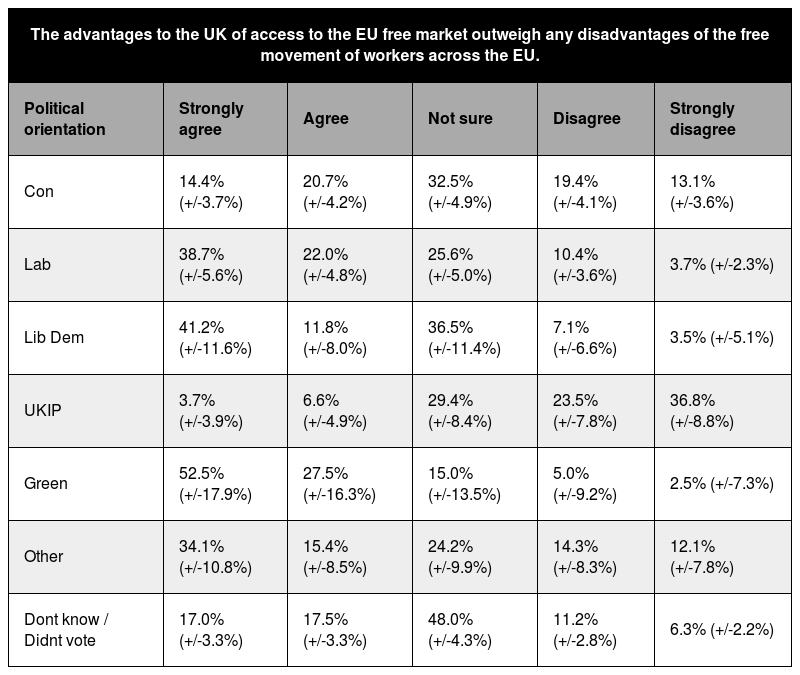
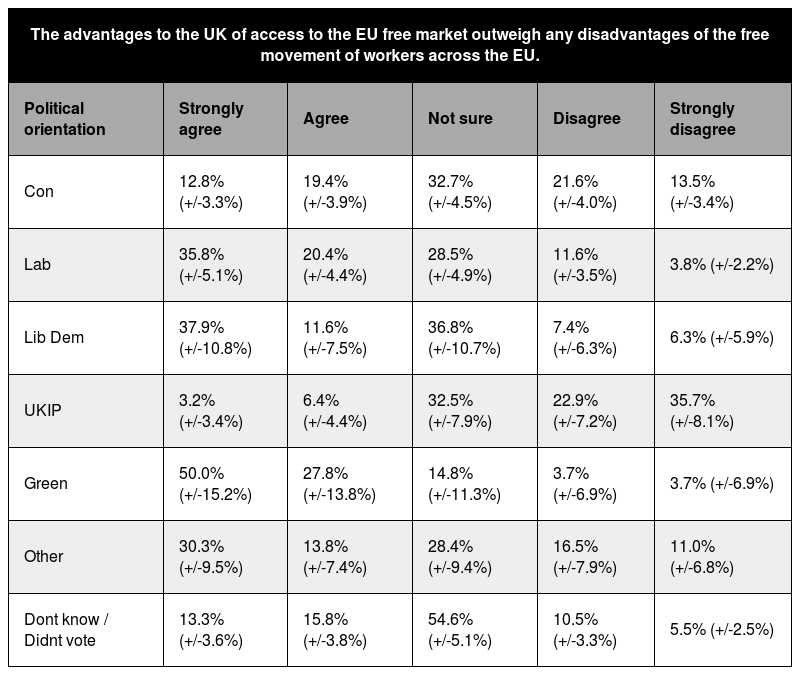
Quesiton 1 draft for yougov review

diff --git a/html/index.md b/html/index.md
@@ -41,13 +41,17 @@ To assess the UK population’s attitude to the UK government's negotiating posi
 
 **"The advantages to the UK of access to the EU free market outweigh any disadvantages of the free movement of workers across the EU."**
 
-With responses on a 5 point Likert scale ("Strongly agree, "Agree", "Not sure", "Disagree", "Strongly disagree"), to a sample of 1638 people using an online survey conducted by YouGov using their daily omnibus service.
+With responses on a 5 point Likert scale ("Strongly agree, "Agree", "Not sure", "Disagree", "Strongly disagree"), to a sample of 1639 people using an online survey conducted by YouGov using their daily omnibus service, on the 19th and 20th of July 2016.
+
+This survey has been conducted using an online interview administered members of the YouGov Plc GB panel of 185,000+ individuals who have agreed to take part in surveys. An email was sent to panellists selected at random from the base sample according to the sample definition, inviting them to take part in the survey and providing a link to the survey. YouGov Plc normally achieves a response rate of between 35% and 50% to surveys however this does vary dependent upon the subject matter, complexity and length of the questionnaire. The responding sample is weighted to the profile of the sample definition to provide a representative reporting sample. The profile is normally derived from census data or, if not available from the census, from industry accepted data.
 
 The sample included some representation from all demographic groups across 6 broad regions of the UK (London, Rest of the South, Midlands and Wales, North of England, Scotland, Northern Ireland). There was some sample bias noted with a moderate underrepresentation of 18-24 year old males in London, and in the Midlands / Wales, and over representation of females of all age groups in the Rest of the South. A weighting was applied to correct this sample bias based on demographics.
 
 The sample included people who voted across the political spectrum in the 2015 general election. The proportions were compared to the known outcome of the election, and a significant underrepresentation of people who did not vote in the last election was noted. This suggests that there is a disengaged cohort in the population that neither voted in the 2015 election nor responds to surveys, and our sample is only really looking at engaged voters. It is likely the statistical significance of this disengaged group affects all results equally, but this is a potential source of bias in the results. The other voting patterns were appropriate and a politic weighting factor has been applied for the sample bias against those that did not vote. 
 
-The other potential biases identified for surveys of this type is a central tendency bias, and agreement bias. It is not possible to control for these given the design of the survey. 
+The other potential biases identified for surveys of this type is a central tendency bias, and agreement bias. It is not possible to control for these given the design of the survey.
+
+All figures, unless otherwise stated, are from YouGov Plc.  Total sample size was 1,639 adults. Fieldwork was undertaken between 19th - 20th July 2016.  The survey was carried out online. The figures have been weighted and are representative of all GB adults (aged 18+). YouGov is a member of the British Polling Council. 
 
 ### Results
 
